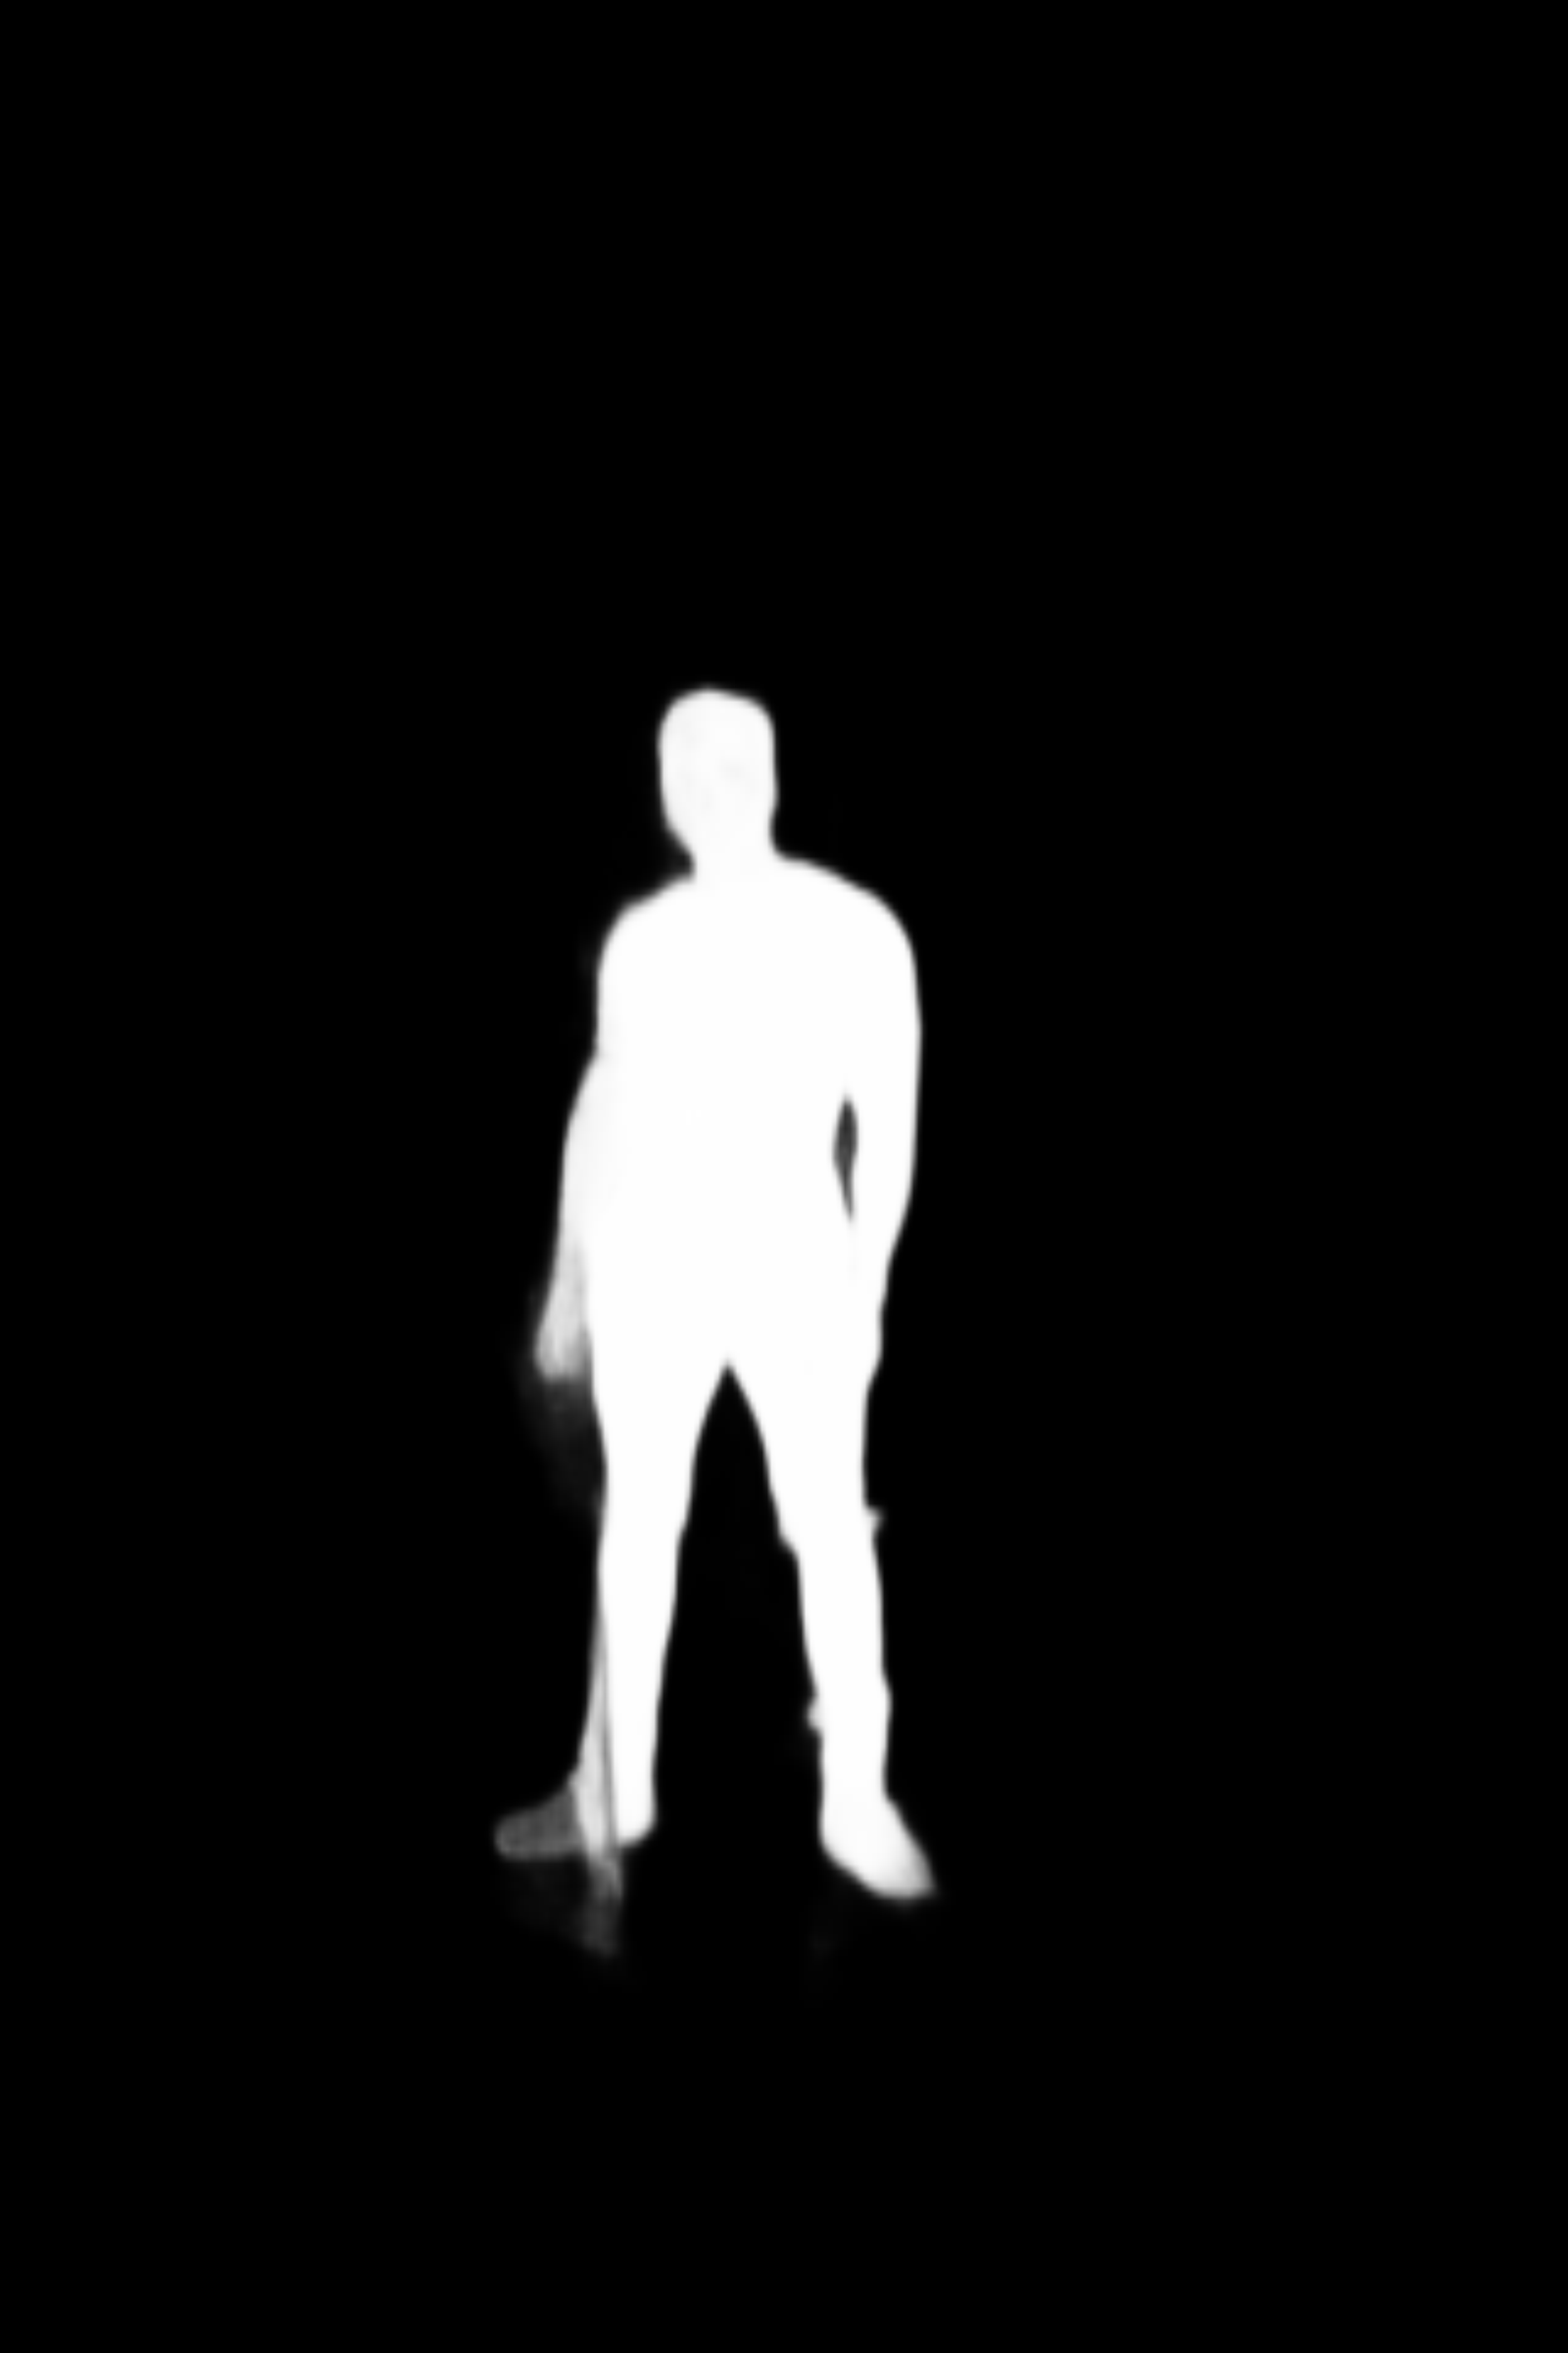
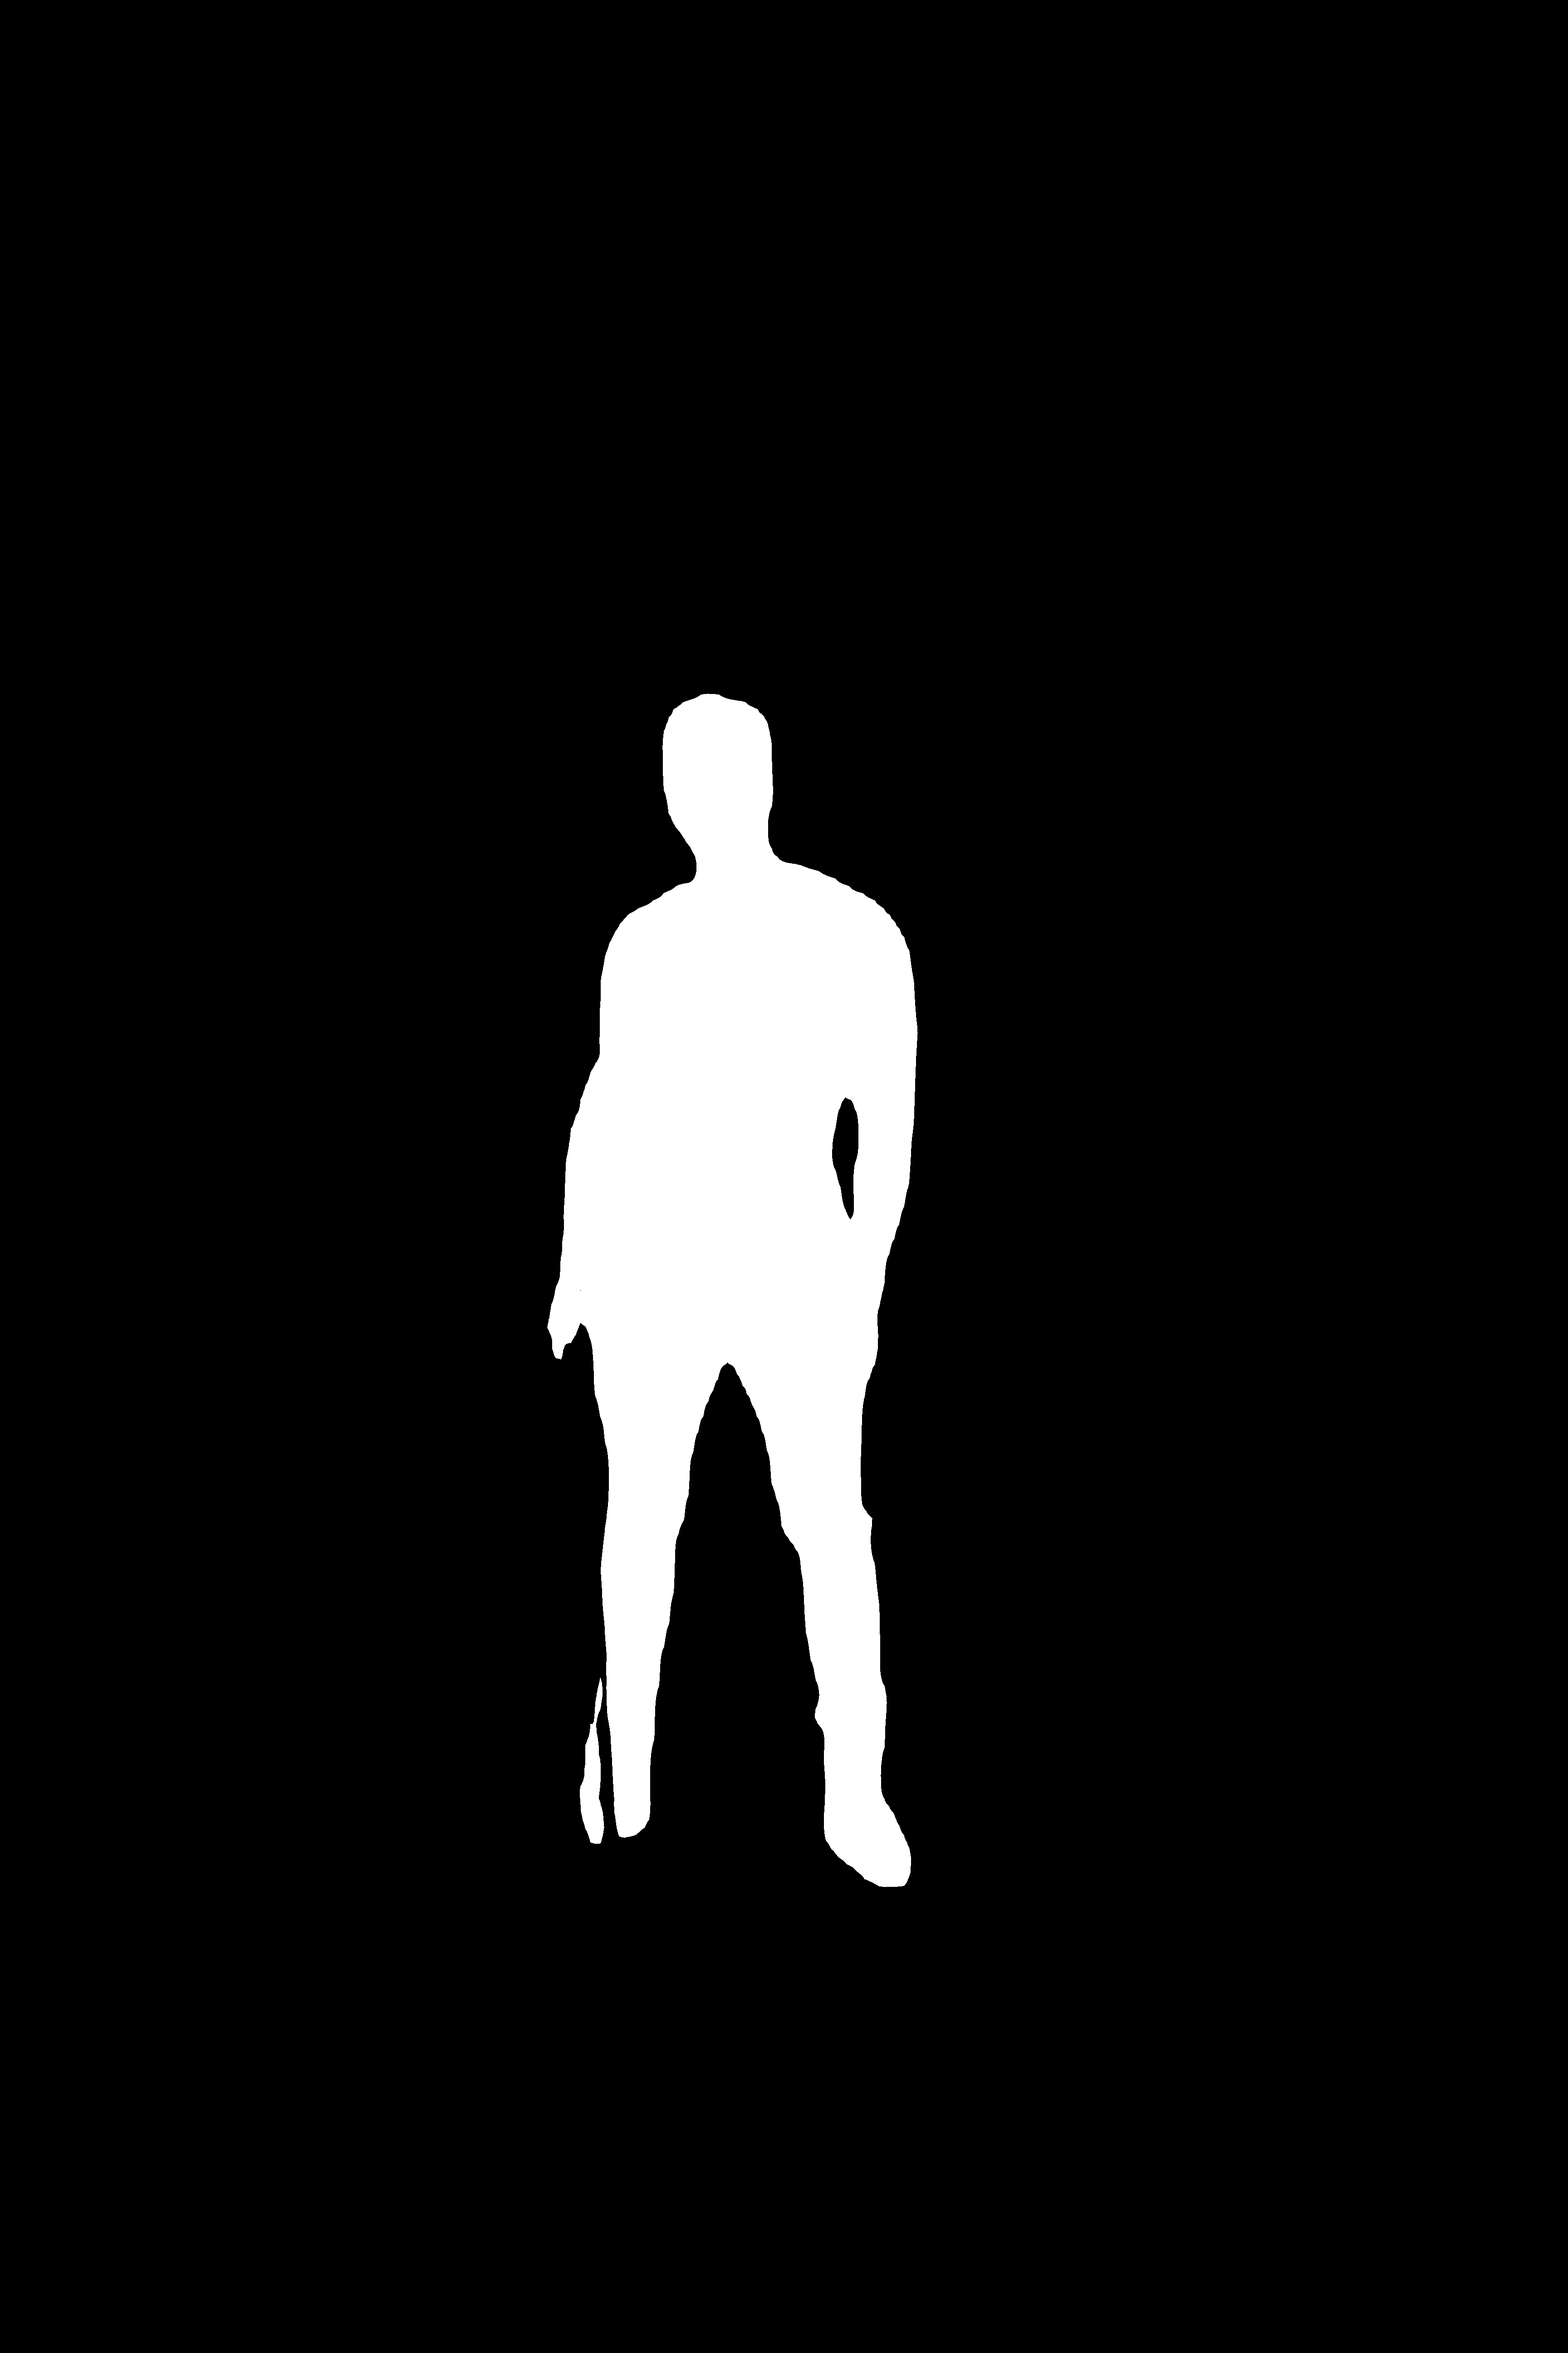
module

diff --git a/U2Net/u2net_test.py b/U2Net/u2net_test.py
@@ -14,152 +14,145 @@ from PIL import Image
 import glob
 import argparse
 
-from data_loader import RescaleT
-from data_loader import ToTensor
-from data_loader import ToTensorLab
-from data_loader import SalObjDataset
+from .data_loader import *
 
-from model import U2NET  # full size version 173.6 MB
-from model import U2NETP  # small version u2net 4.7 MB
+from .model import *  # full size version 173.6 MB / small version u2net 4.7 MB
 import time
 
-# normalize the predicted SOD probability map
 
+class BodySegmentationModel:
+    def __init__(self, model_name='u2netp'):
+        self.model_name = model_name
+        self.model = None
+        #
+        self.load_model()
 
-def my_collate(batch):
-    batch = list(filter(lambda img: img is not None, batch))
-    return torch.utils.data.dataloader.default_collate(list(batch))
+    # normalize the predicted SOD probability map
 
+    def my_collate(self, batch):
+        batch = list(filter(lambda img: img is not None, batch))
+        return torch.utils.data.dataloader.default_collate(list(batch))
 
-def normPRED(d):
-    ma = torch.max(d)
-    mi = torch.min(d)
+    def normPRED(self, d):
+        ma = torch.max(d)
+        mi = torch.min(d)
 
-    dn = (d - mi) / (ma - mi)
+        dn = (d - mi) / (ma - mi)
 
-    return dn
+        return dn
 
+    # ADAPTED SAVING FUNCTION
 
-def save_output(image_name, pred, d_dir):
-    try:
-        predict = pred
-        predict = predict.squeeze()
-        predict_np = predict.cpu().data.numpy()
-        post_process_time = time.time()
-        im = Image.fromarray(predict_np * 255).convert('RGB')
-        img_name = image_name.split("/")[-1]
-        image = io.imread(image_name)
-        imo = im.resize((image.shape[1], image.shape[0]), resample=Image.BILINEAR)
-
-        pb_np = np.array(imo)
-        image_filter = np.greater(pb_np, 200)
-        only_image_name = img_name.split("/")[-1].split(".")[0]
-        output_path = os.path.join(d_dir, only_image_name)
-        save_time = time.time()
-        # np.save(output_path, image_filter)
-        
-        aaa = img_name.split(".")
-        bbb = aaa[0:-1]
-        imidx = bbb[0]
-        for i in range(1, len(bbb)):
-            imidx = imidx + "." + bbb[i]
-        
-        imo.save(d_dir + "/" + imidx + '.png')
-    except Exception as error:
-        raise Exception(error)
-
-
-def get_parameters():
-    parser = argparse.ArgumentParser(
-        description="Identifying Salient Object Detection")
-    parser.add_argument("-i",
-                        "--input",
-                        help="Path to the file that lists all path to images",
-                        type=str)
-    parser.add_argument("-o",
-                        "--output_dir",
-                        help="Path to the output dir", type=str)
-
-    parser.add_argument("-e",
-                        "--errorFile",
-                        help="Path to the log error file", type=str)
-    args = parser.parse_args()
-
-    return args
-
-
-def main():
-    args = get_parameters()
-    # --------- 1. get image path and name ---------
-    model_name = 'u2netp'  # u2netp
-    error_file_link = args.errorFile
-    img_name_list = []
-    with open(args.input, 'r') as file:
-        for line in file:
-            line = line.strip()  # preprocess line
-            img_name_list.append(line)
-    prediction_dir = args.output_dir
-    model_dir = './saved_models/' + model_name + '.pth'
-    #print(img_name_list)
-    print("Num of image paths in ", str(args.input), "is: ", len(img_name_list))
-
-    # --------- 2. dataloader ---------
-    # 1. dataloader
-    test_salobj_dataset = SalObjDataset(img_name_list=img_name_list,
-                                        lbl_name_list=[],
-                                        transform=transforms.Compose([RescaleT(320),
-                                                                      ToTensorLab(flag=0)])
-                                        )
-
-    test_salobj_dataloader = DataLoader(test_salobj_dataset,
-                                        batch_size=1,
-                                        shuffle=False,
-                                        num_workers=1,
-                                        collate_fn=my_collate)
-
-    # --------- 3. model define ---------
-    if model_name == 'u2net':
-        print("...load U2NET---173.6 MB")
-        net = U2NET(3, 1)
-    elif model_name == 'u2netp':
-        print("...load U2NEP---4.7 MB")
-        net = U2NETP(3, 1)
-    net.load_state_dict(torch.load(model_dir, map_location=torch.device('cpu')))
-    if torch.cuda.is_available():
-        net.cuda()
-    net.eval()
-
-    # --------- 4. inference for each image ---------
-    for i_test, data_test in enumerate(test_salobj_dataloader):
+    def save_output(self, image_name, pred, d_dir):
         try:
-            print("\r------In processing file {} with name {}--------".format(i_test + 1, img_name_list[i_test].split("/")[-1]), end='')
+            # Convert prediction tensor to PIL Image
+            predict = pred.squeeze().cpu().data.numpy()
+            im = Image.fromarray(predict * 255).convert('RGB')
 
-            inputs_test = data_test['image']
-            inputs_test = inputs_test.type(torch.FloatTensor)
+            # Get original image dimensions
+            image = io.imread(image_name)
+            imo = im.resize((image.shape[1], image.shape[0]), Image.BILINEAR)
 
-            if torch.cuda.is_available():
-                inputs_test = Variable(inputs_test.cuda())
-            else:
-                inputs_test = Variable(inputs_test)
+            # Apply thresholding to create a binary mask
+            pb_np = np.array(imo)
+            thresholded_np = np.where(pb_np > 200, 255, 0)  # Threshold at 200
 
-            d1, d2, d3, d4, d5, d6, d7 = net(inputs_test)
+            # Convert thresholded array back to PIL Image
+            thresholded_im = Image.fromarray(thresholded_np.astype(np.uint8))
 
+            # Handle filenames with multiple dots (e.g., "image.1.jpg")
+            img_name = os.path.basename(image_name)
+            parts = img_name.split(".")
+            imidx = ".".join(parts[:-1])  # Remove file extension
 
-            # normalization
-            pred = d1[:, 0, :, :]
-            pred = normPRED(pred)
+            # Save final thresholded image as PNG
+            thresholded_im.save(os.path.join(d_dir, f"{imidx}.png"))
 
-            # save results to test_results folder
-            save_output(img_name_list[i_test], pred, prediction_dir)
-
-            del d1, d2, d3, d4, d5, d6, d7
         except Exception as error:
-            print(error)
-            with open(error_file_link, 'a+') as err_file:
-                error_mess = img_name_list[i_test] + '*' + str(error) + '\n'
-                err_file.write(error_mess)
-            continue
+            raise Exception(f"Error saving image: {error}")
 
+    def get_parameters(self):
+        parser = argparse.ArgumentParser(
+            description="Identifying Salient Object Detection")
+        parser.add_argument("-i",
+                            "--input",
+                            help="Path to the file that lists all path to images",
+                            type=str)
+        parser.add_argument("-o",
+                            "--output_dir",
+                            help="Path to the output dir", type=str)
 
-if __name__ == "__main__":
-    main()
+        parser.add_argument("-e",
+                            "--errorFile",
+                            help="Path to the log error file", type=str)
+        args = parser.parse_args()
+
+        return args
+
+    def load_model(self):
+
+        model_dir = os.path.join(os.path.dirname(os.path.abspath(
+            __file__)), 'saved_models/' + self.model_name + '.pth')
+
+        # --------- 3. model define ---------
+        if self.model_name == 'u2net':
+            print("...load U2NET---173.6 MB")
+            self.model = U2NET(3, 1)
+        elif self.model_name == 'u2netp':
+            print("...load U2NEP---4.7 MB")
+            self.model = U2NETP(3, 1)
+        self.model.load_state_dict(torch.load(
+            # CPU MODE
+            model_dir, map_location=None if torch.cuda.is_available() else torch.device('cpu')))
+        if torch.cuda.is_available():
+            self.model.cuda()
+        self.model.eval()
+
+    def predict(self, src, out):
+        img_name_list = [src]
+
+        # --------- 2. dataloader ---------
+        # 1. dataloader
+        test_salobj_dataset = SalObjDataset(img_name_list=img_name_list,
+                                            lbl_name_list=[],
+                                            transform=transforms.Compose([RescaleT(320),
+                                                                          ToTensorLab(flag=0)])
+                                            )
+
+        test_salobj_dataloader = DataLoader(test_salobj_dataset,
+                                            batch_size=1,
+                                            shuffle=False,
+                                            num_workers=1,
+                                            collate_fn=self.my_collate)
+
+        # --------- 4. inference for each image ---------
+        for i_test, data_test in enumerate(test_salobj_dataloader):
+            try:
+                print("\r------In processing file {} with name {}--------".format(i_test +
+                                                                                  1, img_name_list[i_test].split("/")[-1]), end='')
+
+                inputs_test = data_test['image']
+                inputs_test = inputs_test.type(torch.FloatTensor)
+
+                if torch.cuda.is_available():
+                    inputs_test = Variable(inputs_test.cuda())
+                else:
+                    inputs_test = Variable(inputs_test)
+
+                d1, d2, d3, d4, d5, d6, d7 = self.model(inputs_test)
+
+                # normalization
+                pred = d1[:, 0, :, :]
+                pred = self.normPRED(pred)
+
+                # save results to test_results folder
+                self.save_output(img_name_list[i_test], pred, out)
+
+                del d1, d2, d3, d4, d5, d6, d7
+            except Exception as error:
+                print(error)
+                # with open(error_file_link, 'a+') as err_file:
+                #     error_mess = img_name_list[i_test] + \
+                #         '*' + str(error) + '\n'
+                #     err_file.write(error_mess)
+                continue

diff --git a/U2Net/__init__.py b/U2Net/__init__.py
@@ -1,0 +1,1 @@
+from .u2net_test import BodySegmentationModel
